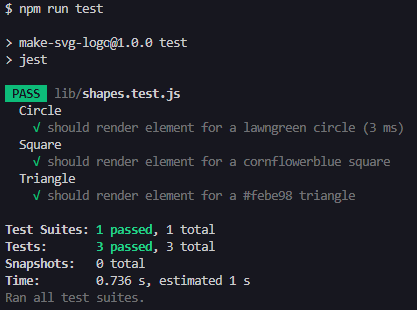
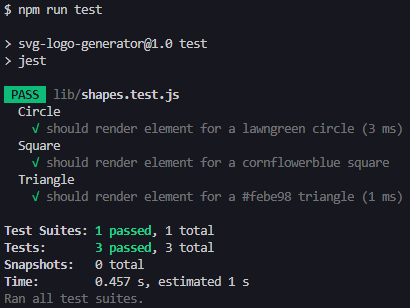
Final touches for README, package, and screenshots
README:
- Rename project title
- Create Tests section
- Add video link
- Other minor changes to reflect updates listed above.

package.json:
- Rename package to reflect title in README.

Updated screenshots and add video/demo photo.

diff --git a/README.md b/README.md
@@ -1,4 +1,4 @@
-# Create a SVG Logo
+# SVG Logo Generator
 [![License: MIT](https://img.shields.io/badge/License-MIT-green?style=for-the-badge)](https://github.com/apri1mayrain/make-svg-logo/blob/main/LICENSE)
 [![Node.js](https://img.shields.io/badge/Node.js-darkgreen?style=for-the-badge)](https://nodejs.org/en)
 [![Inquirer](https://img.shields.io/badge/NPM-Inquirer-yellow?style=for-the-badge&logo=npm)](https://www.npmjs.com/package/inquirer)
@@ -11,12 +11,17 @@
 - [Installation](#installation)
 - [Demo](#demo)
 - [Screenshots](#screenshots)
+- [Tests](#tests)
 - [Credits](#credits)
 - [License](#license)
 
 ## Description
 
-This application allows you to generate a logo and save it as a [SVG](https://www.w3.org/Graphics/SVG/) file. You will be prompted to answer questions to generate the logo such as text, text color, shape, and shape color. Once all questions are answered, the SVG logo will be saved in the **logo.svg** file. To start the app, please reference the [Installation](#installation) instructions below.
+This application allows you to generate a logo and save it as a [SVG](https://www.w3.org/Graphics/SVG/) file.
+
+ You will be prompted to answer questions to generate the logo such as text, text color, shape, and shape color. Once all questions are answered, the SVG logo will be saved in the **logo.svg** file. 
+ 
+ To start the app, please reference the [Installation](#installation) instructions below.
 
 ## Features
 
@@ -29,7 +34,7 @@ This application allows you to generate a logo and save it as a [SVG](https://ww
 ## Installation
 
 1. Download [Node.js](https://nodejs.org/en).
-2. Download repo files by [cloning the repo](https://docs.github.com/en/repositories/creating-and-managing-repositories/cloning-a-repository#cloning-a-repository) or [downloading the ZIP folder](https://github.com/apri1mayrain/make-svg-logo/archive/refs/heads/main.zip). If downloading ZIP folder, please be sure to extract the folder.
+2. Download repo files by [cloning the repo](https://docs.github.com/en/repositories/creating-and-managing-repositories/cloning-a-repository#cloning-a-repository) or [downloading the ZIP folder](https://github.com/apri1mayrain/svg-logo-generator/archive/refs/heads/main.zip). If downloading ZIP folder, please be sure to extract the folder.
 3. Open your preferred command line interface.
 3. Navigate to the file directory containing the repo.
 4. Install the Inquirer and Jest NPM with command: `npm install`
@@ -39,7 +44,7 @@ This application allows you to generate a logo and save it as a [SVG](https://ww
 
 Click photo below to view demo video:
 
-[![Link to demo video](./assets/images/video.png)](GOOGLE DRIVE LINK)
+[![Link to demo video](./assets/images/video.png)](https://drive.google.com/file/d/1zQGVuEuCNf4wJRd8gNHhWG_sp_En08O0/view?usp=sharing)
 
 ## Screenshots
 
@@ -47,7 +52,7 @@ Terminal results:
 
 ![Screenshot of inquirer answers](./assets/images/answers.png)
 
-Invalid answers for text *(left)* and color *(right)*:
+Invalid answers for text and color:
 
 ![Screenshot of invalid text](./assets/images/invalid-text.png)
 ![Screenshot of invalid color](./assets/images/invalid-color.png)
@@ -62,15 +67,19 @@ Generated SVG examples:
 ![Screenshot of generated square.svg file](./examples/square.svg)
 ![Screenshot of generated triangle.svg file](./examples/triangle.svg)
 
-Terminal after running passing tests for shape classes:
+## Tests
+
+Run tests for Circle, Square, and Triangle classes with command: `npm run test`
+
+Tests are stored in **lib/shapes.test.js**.
+
+Terminal after running passing tests:
 
 ![Screenshot of all tests passed](./assets/images/passing-tests.png)
 
 Terminal after running a failed Circle class test:
 
 ![Screenshot of failing Circle class test](./assets/images/test-fail.png)
-
-
 
 ## Credits
 
@@ -82,4 +91,4 @@ Terminal after running a failed Circle class test:
 
 MIT License - Copyright © 2024 apri1mayrain
 
-[(Go back to top)](#create-a-svg-logo)
+[(Go back to top)](#svg-logo-generator)
